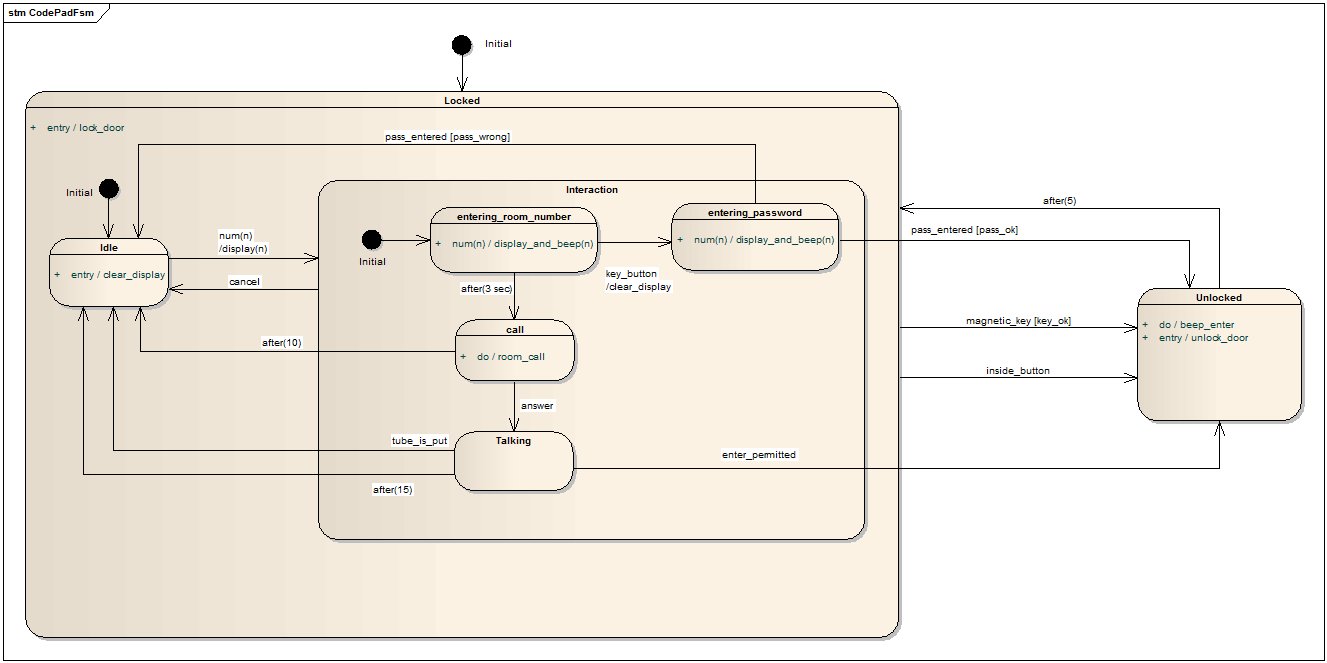
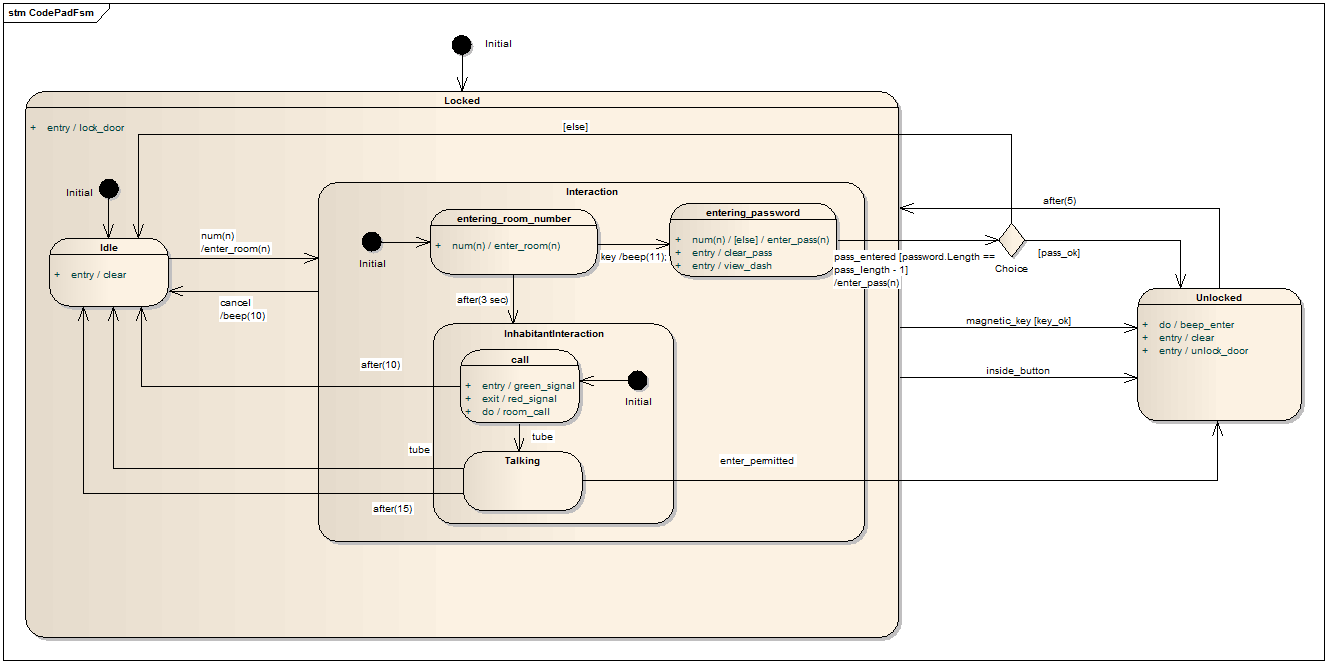
sync and add diagrams, improve AlarmClock example

diff --git a/Tests/CodePad/MainWindow.xaml.cs b/Tests/CodePad/MainWindow.xaml.cs
@@ -159,7 +159,7 @@ namespace CodePadExample
 
         private void inside_button_Click(object sender, RoutedEventArgs e)
         {
-            fsm.Inside_button();
+            fsm.inside_button();
         }
 
         private void room_button_Click(object sender, RoutedEventArgs e)
